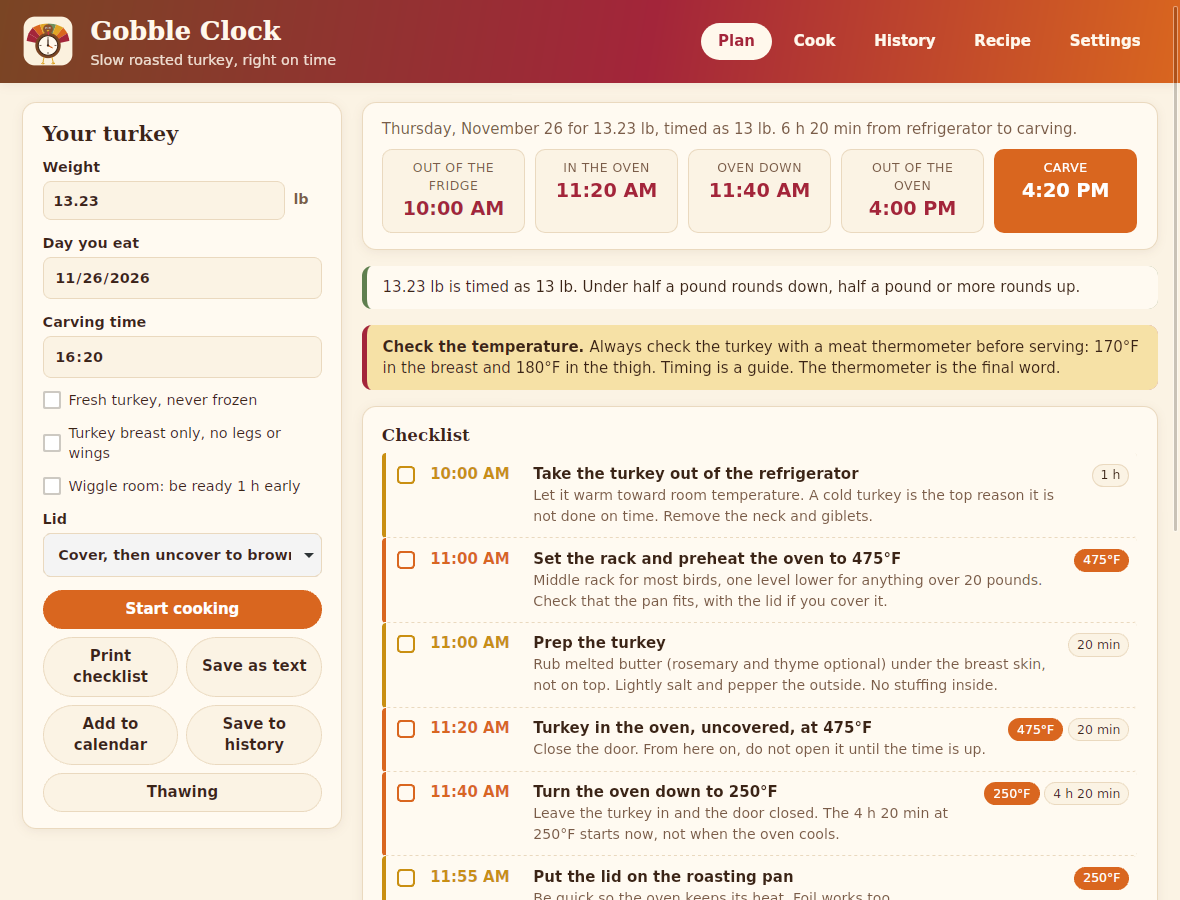
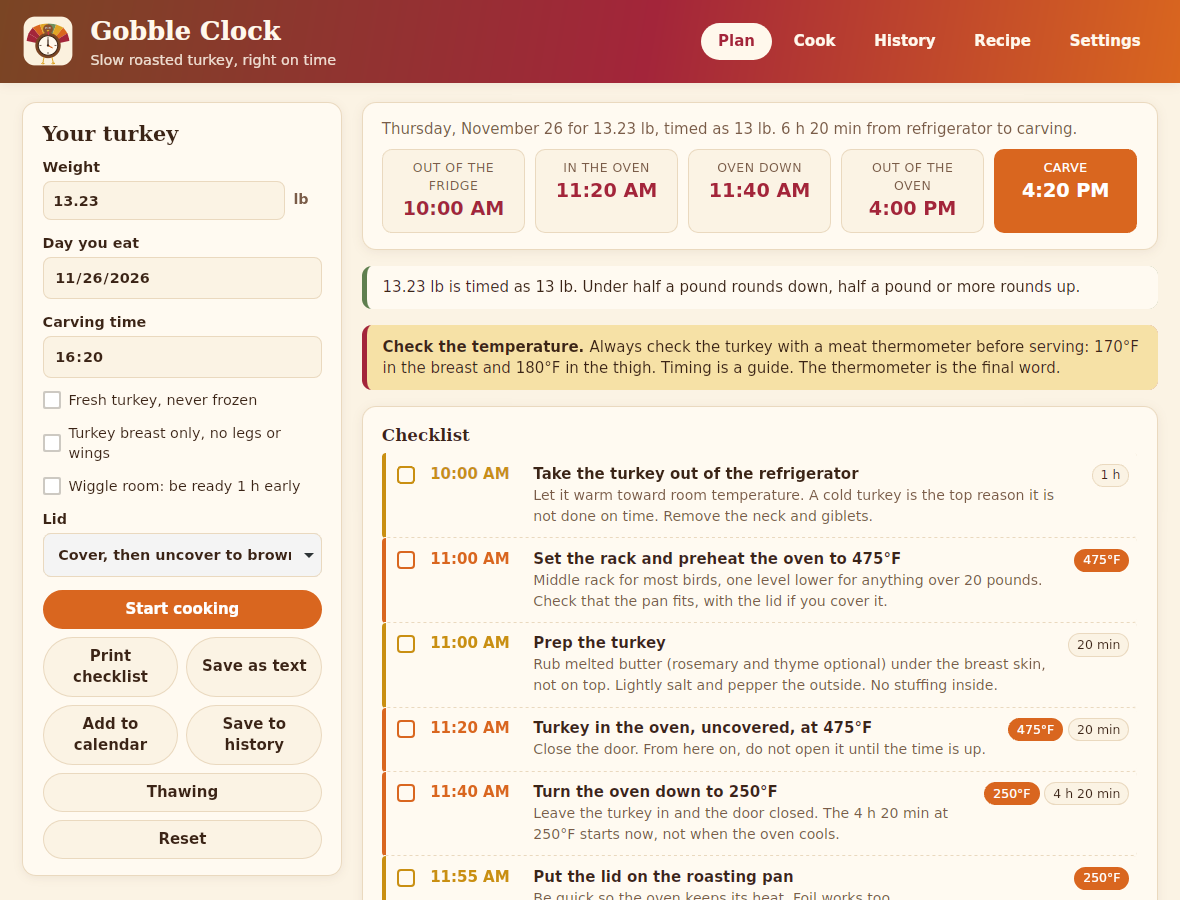
Gobble Clock 1.0.0: Reset button on the Plan tab, version and GitHub link in Settings

diff --git a/crates/gc-ui/src/settings.rs b/crates/gc-ui/src/settings.rs
@@ -4,6 +4,8 @@ use leptos::task::spawn_local;
 
 use crate::{api, Ctx};
 
+pub const GITHUB: &str = "https://github.com/TheCaptainDumbass-TCD/GobbleClock";
+
 fn change(ctx: Ctx, f: impl FnOnce(&mut Settings)) {
     let mut s = ctx.settings.get_untracked();
     f(&mut s);
@@ -169,11 +171,26 @@ pub fn SettingsPanel() -> impl IntoView {
                         .and_then(|r| r.ok())
                         .map(|i| {
                             view! {
-                                <p>{format!("{} {} ({})", i.name, i.version, i.commit)}</p>
+                                <p>{format!("{} version {}", i.name, i.version)}</p>
                                 <p class="small muted">{format!("Your data: {}", i.data_dir)}</p>
                             }
                         })
                 }}
+                <div class="actions">
+                    <button
+                        class="btn"
+                        title=GITHUB
+                        on:click=move |_| {
+                            spawn_local(async move {
+                                if let Err(e) = api::open_link(GITHUB).await {
+                                    ctx.fail(format!("Could not open the GitHub page: {e}"));
+                                }
+                            })
+                        }
+                    >
+                        "Open the GitHub page"
+                    </button>
+                </div>
                 <p class="small muted">
                     "Cooking method from howtocookathanksgivingturkey.com. Copyright (C) 2026 Dennis Ayotte. GPL-3.0-or-later."
                 </p>

diff --git a/crates/gc-ui/src/main.rs b/crates/gc-ui/src/main.rs
@@ -77,7 +77,7 @@ impl Ctx {
     fn new() -> Ctx {
         let settings = RwSignal::new(Settings::default());
         let weight = RwSignal::new(String::new());
-        let date = RwSignal::new(next_thanksgiving(now().date()).format("%Y-%m-%d").to_string());
+        let date = RwSignal::new(Ctx::default_date());
         let time = RwSignal::new("16:20".to_string());
         let fresh = RwSignal::new(false);
         let breast = RwSignal::new(false);
@@ -109,6 +109,29 @@ impl Ctx {
             schedule,
             active_schedule,
         }
+    }
+
+    fn default_date() -> String {
+        next_thanksgiving(now().date()).format("%Y-%m-%d").to_string()
+    }
+
+    /// True when the planner holds anything other than the defaults.
+    pub fn plan_changed(self) -> bool {
+        let time = self.settings.with(|s| s.default_carve_time.clone());
+        !self.weight.get().trim().is_empty()
+            || self.date.get() != Self::default_date()
+            || self.time.get() != time
+            || self.fresh.get()
+            || self.breast.get()
+    }
+
+    /// Clears the weight and puts the day, carving time and checkboxes back to the defaults.
+    pub fn reset_plan(self) {
+        self.weight.set(String::new());
+        self.date.set(Self::default_date());
+        self.time.set(self.settings.with_untracked(|s| s.default_carve_time.clone()));
+        self.fresh.set(false);
+        self.breast.set(false);
     }
 
     pub fn say(self, text: impl Into<String>) {

diff --git a/crates/gc-ui/src/planner.rs b/crates/gc-ui/src/planner.rs
@@ -104,6 +104,15 @@ pub fn Planner() -> impl IntoView {
         }
     };
     let plan_ok = move || ctx.schedule.with(|s| s.is_ok());
+    let reset_block = move || -> Option<&'static str> {
+        if ctx.active.with(|a| a.is_some()) {
+            Some("A cook is running. Stop it on the Cook tab first")
+        } else if !ctx.plan_changed() {
+            Some("Nothing to reset, the plan already has the defaults")
+        } else {
+            None
+        }
+    };
 
     let start = move |_| {
         let Ok(input) = ctx.input.get_untracked() else { return };
@@ -299,6 +308,17 @@ pub fn Planner() -> impl IntoView {
                         on:click=move |_| ctx.thaw_help.set(true)
                     >
                         "Thawing"
+                    </button>
+                    <button
+                        class="btn"
+                        disabled=move || reset_block().is_some()
+                        title=move || reset_block().unwrap_or("Clear the weight and put the day, carving time and checkboxes back to the defaults")
+                        on:click=move |_| {
+                            ctx.reset_plan();
+                            ctx.say("The plan is back to the defaults");
+                        }
+                    >
+                        "Reset"
                     </button>
                 </div>
             </section>

diff --git a/crates/gobbleclock/src/commands.rs b/crates/gobbleclock/src/commands.rs
@@ -119,17 +119,18 @@ pub fn print_page(app: AppHandle) -> Result<(), String> {
 }
 
 /// The only pages the app will open in the browser.
-const RECIPE_PAGES: [&str; 3] = [
+const ALLOWED_LINKS: [&str; 4] = [
     "https://howtocookathanksgivingturkey.com/",
     "https://howtocookathanksgivingturkey.com/pages/turkey-cooking-time.html",
     "https://howtocookathanksgivingturkey.com/pages/convection-ovens.html",
+    "https://github.com/TheCaptainDumbass-TCD/GobbleClock",
 ];
 
-/// Opens a page of the recipe website in the default browser. Other addresses are refused.
+/// Opens a recipe page or the project page in the default browser. Other addresses are refused.
 #[tauri::command]
 pub fn open_link(app: AppHandle, url: String) -> Result<(), String> {
-    if !RECIPE_PAGES.contains(&url.as_str()) {
-        return Err("Only the recipe website can be opened".into());
+    if !ALLOWED_LINKS.contains(&url.as_str()) {
+        return Err("Only the recipe website and the Gobble Clock GitHub page can be opened".into());
     }
     app.opener().open_url(url, None::<&str>).map_err(|e| e.to_string())
 }

diff --git a/README.md b/README.md
@@ -35,6 +35,8 @@ Always check the turkey with a meat thermometer. Timing is a guide. The thermome
 - °F or °C and lb or kg
 - Harvest light, fireside dark and system themes
 - Advanced method times, with Reset to recipe
+- Reset button that puts the plan back to the defaults
+- App version and a link to this GitHub page in Settings
 
 ## Screenshots
 
@@ -62,7 +64,7 @@ Always check the turkey with a meat thermometer. Timing is a guide. The thermome
 
 ![Recipe](docs/screenshots/05-recipe.png)
 
-**Settings:** Units, theme, sound and the recipe times under Advanced.
+**Settings:** Units, theme, sound, the app version and a link to this GitHub page. The recipe times are under Advanced.
 
 ![Settings](docs/screenshots/06-settings.png)
 
@@ -73,7 +75,7 @@ Always check the turkey with a meat thermometer. Timing is a guide. The thermome
 ## Install
 
 ```sh
-sudo apt install ./gobbleclock_0.1.3_amd64.deb
+sudo apt install ./gobbleclock_1.0.0_amd64.deb
 ```
 
 Your data lives in `~/.local/share/dev.quietwire.gobbleclock`. Removing the package leaves it in place.

diff --git a/CHANGELOG.md b/CHANGELOG.md
@@ -2,8 +2,12 @@
 
 Gobble Clock follows semantic versioning. Versions below 1.0.0 are pre-release builds.
 
-## 0.1.4 (unreleased)
+## 1.0.0
 
+First public release.
+
+- New Reset button on the Plan tab that clears the weight and puts the day, carving time and checkboxes back to the defaults. It is grayed out while a cook is running or when there is nothing to reset
+- Settings shows the app version and has a button that opens the Gobble Clock GitHub page
 - Settings and carving dates that could not come from the Settings screen, such as a hand edited file, are refused with a clear message instead of producing a broken schedule
 - Recipe links open through the Tauri opener and only the three recipe pages are allowed
 - Reminders keep running even if an earlier error left the app data locked
